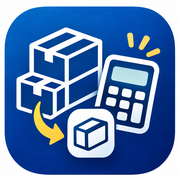
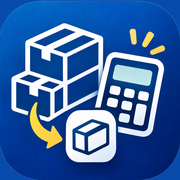
Add files via upload

diff --git a/index.html b/index.html
@@ -1,1 +1,1 @@
-<!doctype html><html lang="ja"><head><meta charset="utf-8"><meta name="viewport" content="width=device-width,initial-scale=1,viewport-fit=cover"><meta name="theme-color" content="#0751b2"><meta name="apple-mobile-web-app-capable" content="yes"><meta name="apple-mobile-web-app-status-bar-style" content="default"><title>バラ在庫計算</title><link rel="manifest" href="manifest.webmanifest"><link rel="apple-touch-icon" href="apple-touch-icon.png"><style>*{box-sizing:border-box}body{margin:0;background:linear-gradient(160deg,#e6f5ff,#f7fbff);font-family:-apple-system,BlinkMacSystemFont,'Helvetica Neue',sans-serif;color:#123458;min-height:100dvh}.app{max-width:520px;margin:auto;padding:calc(env(safe-area-inset-top) + 24px) 20px 40px}.head{display:flex;align-items:center;gap:14px;margin-bottom:28px}.head img{width:66px;height:66px;border-radius:17px;box-shadow:0 6px 15px #154c8b30}.head h1{font-size:25px;margin:0 0 4px}.head p{margin:0;color:#65819b;font-size:13px}.panel{background:white;border-radius:25px;padding:23px;box-shadow:0 12px 34px #1c64931b;border:1px solid #e1effa}.field{margin-bottom:20px}.field label{display:block;font-weight:750;margin-bottom:9px;font-size:15px}.field input{width:100%;font-size:30px;font-weight:750;border:2px solid #dceaf5;border-radius:16px;padding:14px 16px;color:#123b72;background:#f8fcff;outline:none}.field input:focus{border-color:#1886ec}.result{margin-top:23px;background:linear-gradient(145deg,#0768ce,#073c9c);border-radius:22px;padding:24px;text-align:center;color:white}.result .caption{font-size:15px;opacity:.9}.result .number{font-size:76px;font-weight:850;line-height:1.3;letter-spacing:-3px}.result .unit{font-size:20px;font-weight:700}.sub{display:flex;gap:12px;margin-top:14px}.mini{flex:1;text-align:center;border-radius:16px;background:#eef7ff;padding:17px 5px}.mini span{display:block;color:#5e7993;font-size:12px}.mini strong{display:block;font-size:24px;margin-top:7px}.reset{width:100%;margin-top:22px;border:1px solid #c4dcf2;border-radius:14px;background:white;color:#235a8e;padding:15px;font-size:16px;font-weight:700}.hint{text-align:center;color:#7690a6;font-size:12px;margin-top:18px}.error{color:#b32a2a;font-size:13px;min-height:18px;margin-top:6px}</style></head><body><main class="app"><header class="head"><img src="icon-192.png" alt="ロゴ"><div><h1>バラ在庫計算</h1><p>在庫と入数から、バラを瞬時に計算</p></div></header><section class="panel"><div class="field"><label for="stock">現在の在庫数（個）</label><input id="stock" type="number" min="0" step="1" inputmode="numeric" placeholder="例：100" value="100"></div><div class="field"><label for="caseSize">1ケースの入数（個）</label><input id="caseSize" type="number" min="1" step="1" inputmode="numeric" placeholder="例：30" value="30"></div><div id="error" class="error" role="status"></div><div class="result" aria-live="polite"><div class="caption">バラ在庫数</div><div><span id="loose" class="number">10</span><span class="unit"> 個</span></div></div><div class="sub"><div class="mini"><span>満ケース数</span><strong id="cases">3 ケース</strong></div><div class="mini"><span>ケース内のバラ</span><strong id="remainder">10 個</strong></div></div><button class="reset" id="reset">↻ 入力をクリア</button></section><p class="hint">入力すると自動で計算されます · オフライン対応</p></main><script>const stock=document.querySelector('#stock'),size=document.querySelector('#caseSize'),loose=document.querySelector('#loose'),cases=document.querySelector('#cases'),remainder=document.querySelector('#remainder'),error=document.querySelector('#error');function calc(){const a=Number(stock.value),b=Number(size.value);if(stock.value===''||size.value===''){error.textContent='';loose.textContent='—';cases.textContent='—';remainder.textContent='—';return}if(!Number.isSafeInteger(a)||!Number.isSafeInteger(b)||a<0||b<=0){error.textContent='在庫は0以上、入数は1以上の整数で入力してください';loose.textContent='—';cases.textContent='—';remainder.textContent='—';return}error.textContent='';const r=a%b;loose.textContent=r.toLocaleString('ja-JP');cases.textContent=Math.floor(a/b).toLocaleString('ja-JP')+' ケース';remainder.textContent=r.toLocaleString('ja-JP')+' 個'}stock.addEventListener('input',calc);size.addEventListener('input',calc);document.querySelector('#reset').addEventListener('click',()=>{stock.value='';size.value='';calc();stock.focus()});if('serviceWorker'in navigator)window.addEventListener('load',()=>navigator.serviceWorker.register('./sw.js').catch(()=>{}));calc();</script></body></html>
+<!doctype html><html lang="ja"><head><meta charset="utf-8"><meta name="viewport" content="width=device-width,initial-scale=1,viewport-fit=cover"><meta name="theme-color" content="#0751b2"><meta name="apple-mobile-web-app-capable" content="yes"><meta name="apple-mobile-web-app-status-bar-style" content="default"><title>バラ在庫計算</title><link rel="manifest" href="manifest.webmanifest"><link rel="apple-touch-icon" href="apple-touch-icon.png?v=2"><style>*{box-sizing:border-box}body{margin:0;background:linear-gradient(160deg,#e6f5ff,#f7fbff);font-family:-apple-system,BlinkMacSystemFont,'Helvetica Neue',sans-serif;color:#123458;min-height:100dvh}.app{max-width:520px;margin:auto;padding:calc(env(safe-area-inset-top) + 24px) 20px 40px}.head{display:flex;align-items:center;gap:14px;margin-bottom:28px}.head img{width:66px;height:66px;border-radius:17px;box-shadow:0 6px 15px #154c8b30}.head h1{font-size:25px;margin:0 0 4px}.head p{margin:0;color:#65819b;font-size:13px}.panel{background:white;border-radius:25px;padding:23px;box-shadow:0 12px 34px #1c64931b;border:1px solid #e1effa}.field{margin-bottom:20px}.field label{display:block;font-weight:750;margin-bottom:9px;font-size:15px}.field input{width:100%;font-size:30px;font-weight:750;border:2px solid #dceaf5;border-radius:16px;padding:14px 16px;color:#123b72;background:#f8fcff;outline:none}.field input:focus{border-color:#1886ec}.result{margin-top:23px;background:linear-gradient(145deg,#0768ce,#073c9c);border-radius:22px;padding:24px;text-align:center;color:white}.result .caption{font-size:15px;opacity:.9}.result .number{font-size:76px;font-weight:850;line-height:1.3;letter-spacing:-3px}.result .unit{font-size:20px;font-weight:700}.sub{display:flex;gap:12px;margin-top:14px}.mini{flex:1;text-align:center;border-radius:16px;background:#eef7ff;padding:17px 5px}.mini span{display:block;color:#5e7993;font-size:12px}.mini strong{display:block;font-size:24px;margin-top:7px}.reset{width:100%;margin-top:22px;border:1px solid #c4dcf2;border-radius:14px;background:white;color:#235a8e;padding:15px;font-size:16px;font-weight:700}.hint{text-align:center;color:#7690a6;font-size:12px;margin-top:18px}.error{color:#b32a2a;font-size:13px;min-height:18px;margin-top:6px}</style></head><body><main class="app"><header class="head"><img src="icon-192.png?v=2" alt="ロゴ"><div><h1>バラ在庫計算</h1><p>在庫と入数から、バラを瞬時に計算</p></div></header><section class="panel"><div class="field"><label for="stock">現在の在庫数（個）</label><input id="stock" type="number" min="0" step="1" inputmode="numeric" placeholder="例：100" value="100"></div><div class="field"><label for="caseSize">1ケースの入数（個）</label><input id="caseSize" type="number" min="1" step="1" inputmode="numeric" placeholder="例：30" value="30"></div><div id="error" class="error" role="status"></div><div class="result" aria-live="polite"><div class="caption">バラ在庫数</div><div><span id="loose" class="number">10</span><span class="unit"> 個</span></div></div><div class="sub"><div class="mini"><span>満ケース数</span><strong id="cases">3 ケース</strong></div><div class="mini"><span>ケース内のバラ</span><strong id="remainder">10 個</strong></div></div><button class="reset" id="reset">↻ 入力をクリア</button></section><p class="hint">入力すると自動で計算されます · オフライン対応</p></main><script>const stock=document.querySelector('#stock'),size=document.querySelector('#caseSize'),loose=document.querySelector('#loose'),cases=document.querySelector('#cases'),remainder=document.querySelector('#remainder'),error=document.querySelector('#error');function calc(){const a=Number(stock.value),b=Number(size.value);if(stock.value===''||size.value===''){error.textContent='';loose.textContent='—';cases.textContent='—';remainder.textContent='—';return}if(!Number.isSafeInteger(a)||!Number.isSafeInteger(b)||a<0||b<=0){error.textContent='在庫は0以上、入数は1以上の整数で入力してください';loose.textContent='—';cases.textContent='—';remainder.textContent='—';return}error.textContent='';const r=a%b;loose.textContent=r.toLocaleString('ja-JP');cases.textContent=Math.floor(a/b).toLocaleString('ja-JP')+' ケース';remainder.textContent=r.toLocaleString('ja-JP')+' 個'}stock.addEventListener('input',calc);size.addEventListener('input',calc);document.querySelector('#reset').addEventListener('click',()=>{stock.value='';size.value='';calc();stock.focus()});if('serviceWorker'in navigator)window.addEventListener('load',()=>navigator.serviceWorker.register('./sw.js').catch(()=>{}));calc();</script></body></html>

diff --git a/sw.js b/sw.js
@@ -1,1 +1,1 @@
-const CACHE='bara-stock-v1';const FILES=['./','./index.html','./manifest.webmanifest','./icon-192.png','./icon-512.png','./apple-touch-icon.png'];self.addEventListener('install',e=>{e.waitUntil(caches.open(CACHE).then(c=>c.addAll(FILES)));self.skipWaiting()});self.addEventListener('activate',e=>{e.waitUntil(self.clients.claim())});self.addEventListener('fetch',e=>{if(e.request.method==='GET'&&new URL(e.request.url).origin===self.location.origin)e.respondWith(caches.match(e.request).then(r=>r||fetch(e.request)))})
+const CACHE='bara-stock-v2';const FILES=['./','./index.html','./manifest.webmanifest','./icon-192.png','./icon-512.png','./apple-touch-icon.png'];self.addEventListener('install',e=>{e.waitUntil(caches.open(CACHE).then(c=>c.addAll(FILES)));self.skipWaiting()});self.addEventListener('activate',e=>{e.waitUntil(self.clients.claim())});self.addEventListener('fetch',e=>{if(e.request.method==='GET'&&new URL(e.request.url).origin===self.location.origin)e.respondWith(caches.match(e.request).then(r=>r||fetch(e.request)))})
